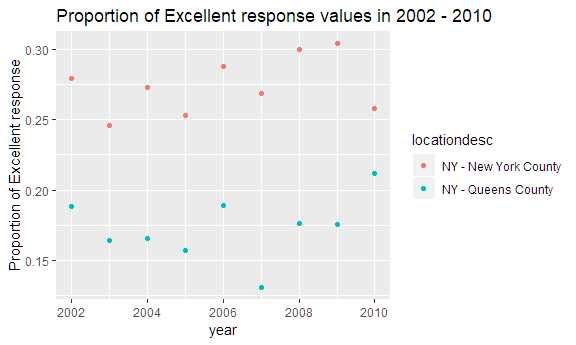
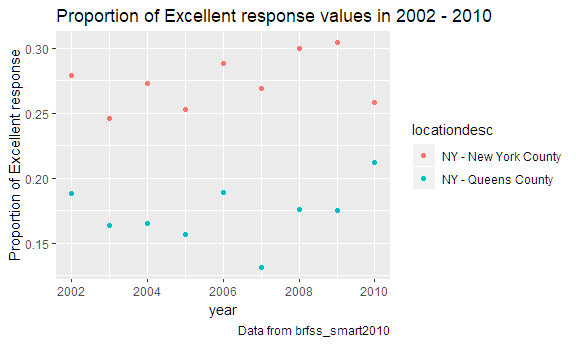
minor text change

diff --git a/p8105_hw2_yc3242.md b/p8105_hw2_yc3242.md
@@ -30,7 +30,7 @@ nyc_data =
   read_csv(file = "./hw2_data/NYC_Transit_Subway_Entrance_And_Exit_Data.csv") %>% 
   janitor::clean_names() %>% 
   select(line:entry, vending, ada) %>% 
-  mutate(entry = recode(entry, "YES" = TRUE, "NO" = FALSE))
+  mutate(entry = recode(entry, "YES" = TRUE, "NO" = FALSE))    # character to logical
 ```
 
     ## Parsed with column specification:
@@ -50,19 +50,21 @@ nyc_data =
 
     ## See spec(...) for full column specifications.
 
-This NYC Transit data (`nyc_data`) is composed of *line, station name, its latitude and longitude, routes it serves, entrance type, whether or not you can enter the station, presence of ticket vending machine*, and *ADA compliance*. These variables were selected from `NYC_Transit_Subway_Entrance_And_Exit_Data.csv` original dataset which was followed by `clean_names()` function in the janitor library. After selecting variables process, `entry` variable was converted from character variable to logical variable. The **size** of the NYC Transit data is **1868 rows** and **19** columns. These data are not tidy because columns are values not variables and there are many duplicated rows.
+This NYC Transit data (`nyc_data`) is composed of *line, station name, its latitude and longitude, routes it serves, entrance type, whether or not you can enter the station, presence of ticket vending machine*, and *ADA compliance*. These variables were selected from `NYC_Transit_Subway_Entrance_And_Exit_Data.csv` original dataset which was followed by cleaning up column names. After selecting variables process, `entry` variable was converted from character variable to logical variable. The **size** of the NYC Transit data is **1868** rows and **19** columns. These data are not tidy because columns are values not variables and there are many duplicated rows.
 
-To remove duplicated rows, I used `distinct()` function as below:
+To preserve one distinct row from duplicated rows, I used `distinct()` function as below:
 
 ``` r
 nyc_data = distinct(nyc_data)
 ```
 
-The **size** of the NYC Transit data is now 684 rows and 19 columns.
+The **size** of the NYC Transit data is now **684** rows and **19** columns.
 
 ### Questions
 
 **1.1. How many distinct stations are there?**
+
+The stations are identified both by name and by name.
 
 ``` r
 nyc_data %>% 
@@ -95,6 +97,8 @@ There are **84** ADA compliant stations.
 
 **1.3. What proportion of station entrances / exits without vending allow entrance?**
 
+Since the type of `entry` variable is logical, I calculated the mean of `entry` variable to get the proportion of `TRUE`s, after filtering a vending condition `NO`.
+
 ``` r
 nyc_data %>% 
   filter(vending == "NO") %>% 
@@ -115,7 +119,7 @@ To answer the questions 1.4. and 1.5., I reformatted data as below so that route
 ``` r
 reform_nyc_data = 
   nyc_data %>%
-  gather(key = "route", value = "route_name", route1:route11) %>%  # gather spreading route variables
+  gather(key = "route", value = "route_name", route1:route11) %>%     # wide to long
   separate(route, into = c("remove", "route_number"), sep = 5) %>% 
   select(-remove)
 ```
@@ -155,7 +159,7 @@ There are **17** ADA compliant distinct stations serve A train.
 Problem 2
 =========
 
-I I used the readxl library to read `xlsx` file for problem 2.
+I used the readxl library to read .xlsx file for problem 2.
 
 ``` r
 library(readxl)
@@ -169,16 +173,18 @@ I read and clean the Mr. Trash Wheel sheet as follows.
 trash_data = 
   read_excel(path = "./hw2_data/HealthyHarborWaterWheelTotals2018-7-28.xlsx",
                      sheet = 1, range = cell_cols("A:N")) %>% 
-  janitor::clean_names() %>%                              # use reasonable variable names
+  janitor::clean_names() %>%                              # clean up col names
+  rename(weight = weight_tons, 
+         volume = volume_cubic_yards) %>%                 # remove units from col names
   filter(!is.na(dumpster)) %>%                            # omit NA data
-  mutate(sports_balls = as.integer(round(sports_balls)))  # round and convert sports_ball
+  mutate(sports_balls = as.integer(round(sports_balls)))  # convert to integer
 ```
 
 -   The **number of observations** is **285**.
--   I think the **key variables** are `month` and `year` since in general, we can analyze the total amount of trash or each kind of trash by them.
+-   I think the **key variables** are `weight` and `volume` of trash and various `kinds` of trash. For example, the total weight(tons) of trash during 2016 is **164.59** and total volume(cubic yards) of trash during 2017 **885**. Also, the average of amount of plastic bottles during 2017 is **1997.8**
 -   The **median** number of sports balls in a dumpster in 2016 is **26**.
 
-### Precipiation data
+### Precipiation
 
 I read and clean precipitation data for 2016.
 
@@ -207,18 +213,18 @@ precip_2017 =
 And then, I combined these datasets and converted month to a character variable.
 
 ``` r
-precip_data = bind_rows(precip_2016, precip_2017) %>% 
-              mutate(month = month.name[month])
+precip_data = bind_rows(precip_2016, precip_2017) %>%   
+              mutate(month = month.name[month])        # convert to character 
 ```
 
 -   The **number of observations** is **24**.
--   In this case, `month` and `year` can be considered as **key variables** since, for example, we can see the trends of precipitation by month and compare the amount of precipitation in years.
+-   In this case, `total precipiation` can be considered as **key variables**. For example, the maximum amount of total precipitation per month in 2016 is **6.09**(in).
 -   The **total precipitation** in 2017 is **32.93**(in).
 
 Problem 3
 =========
 
-First, I loaded the dataset for problem 3 from the library.
+First, I loaded the dataset for problem 3 from the following library.
 
 ``` r
 library(p8105.datasets)
@@ -248,7 +254,7 @@ There are **404** unique locations are included in the dataset.
 
 **3.2. Is every state represented?**
 
-**Yes**. Because **51** states including DC is represented.
+**Yes**, given that **51** states including DC are represented.
 
 **3.3. What state is observed the most?**
 
@@ -271,7 +277,7 @@ brfss_data %>% count(locationabbr) %>% arrange(desc(n))
     ## 10 CO              59
     ## # ... with 41 more rows
 
-**`NJ`** is observed the most.
+**NJ** is observed the most.
 
 **3.4. In 2002, what is the median of the “Excellent” response value?**
 
@@ -333,7 +339,8 @@ brfss_data %>%
   labs(
     x = "year",
     y = "Proportion of Excellent response",
-    title = "Proportion of Excellent response values in 2002 - 2010"
+    title = "Proportion of Excellent response values in 2002 - 2010",
+    caption = "Data from brfss_smart2010"
   )
 ```
 
